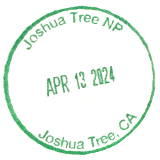
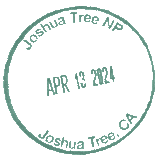
normalise cancellation stamp images; update clean_stamps.py
Remove white backgrounds from all stamps. Apply consistent duotone
(#5AB89A) to all green/cyan stamps, darken blue stamps (Mount Rainier).
Brown/warm stamps left as-is. Update clean_stamps.py to automate this
pipeline for future stamps via hue detection. Document in README.

diff --git a/css/style.css b/css/style.css
@@ -287,12 +287,10 @@ image.place {
   cursor: pointer;
   transition: opacity 0.4s ease;
   filter: url(#inset-shadow);
-  opacity: 0.4;
 }
 
 image.place.visited {
   filter: url(#drop-shadow);
-  opacity: 1;
 }
 
 #content {
@@ -389,7 +387,7 @@ image.place.visited {
   font-family: inherit;
   font-size: 0.9rem;
   font-weight: 600;
-  color: var(--color-text-tertiary);
+  color: var(--color-text-lightest);
   transition: background var(--transition-fast), color var(--transition-fast);
   line-height: 1;
   min-height: 28px;
@@ -526,7 +524,7 @@ image.place.visited {
   content: '';
   position: absolute;
   inset: 0;
-  background: #fff;
+  background: var(--color-map-water);
   border-radius: var(--radius-md);
   backface-visibility: hidden;
   transform: translateZ(0);
@@ -536,7 +534,7 @@ image.place.visited {
   content: '';
   position: absolute;
   inset: 0;
-  background-color: var(--color-map-water);
+  background-color: #D4C9A8;
   border-radius: var(--radius-md);
   transform: rotateY(180deg) translateZ(0);
   backface-visibility: hidden;

diff --git a/js/main.js b/js/main.js
@@ -433,11 +433,11 @@ function setupYearFilter(images, visits) {
   const container = d3.select('#year-filter');
 
   container.selectAll('button')
-    .data(['all', ...years])
+    .data([...years, 'all'])
     .enter()
     .append('button')
     .attr('class', 'year-btn')
-    .classed('year-btn--active', (d, i) => i === 0)
+    .classed('year-btn--active', (d, i, nodes) => i === nodes.length - 1)
     .text(d => d === 'all' ? 'All' : d)
     .on('click', (event, year) => {
       container.selectAll('.year-btn').classed('year-btn--active', d => d === year);

diff --git a/scripts/clean_stamps.py b/scripts/clean_stamps.py
@@ -1,15 +1,23 @@
 #!/usr/bin/env python3
 """
-Clean up NPS passport cancellation stamp photos using Gemini.
+Clean up NPS passport cancellation stamp photos using Gemini, then normalise
+colours so all stamps look consistent against the card's cream background.
 
 Place raw stamp photos in this folder (jpg/png/heic) and run:
     GEMINI_API_KEY=your_key python3 scripts/clean_stamps.py
 
 Cleaned 160x160 PNGs are saved alongside the originals with a _clean suffix
 for review. Once happy, rename and move to img/cancellations/.
+
+Colour treatment applied automatically by detected hue:
+  - Green / cyan (hue 80-210°): duotone to a consistent dark teal-green
+  - Blue (hue 210-270°):        darken while preserving hue
+  - Warm / brown / black:       remove white background only
 """
 
+import colorsys
 import io
+import math
 import os
 import sys
 from pathlib import Path
@@ -27,6 +35,14 @@ if not API_KEY:
     print("Error: set GEMINI_API_KEY environment variable before running")
     sys.exit(1)
 
+# ── Colour normalisation settings ────────────────────────────────────────────
+GREEN_DUOTONE_TARGET   = (90, 184, 154)   # #5AB89A - consistent teal-green
+GREEN_DUOTONE_BRIGHT   = 0.85             # luminance multiplier before tint
+GREEN_DUOTONE_MIX      = 0.50             # how strongly the target colour is applied
+BLUE_BRIGHTNESS        = 0.60             # multiplier for blue stamps
+WHITE_BG_FUZZ          = 0.20             # fuzz threshold for background removal
+# ─────────────────────────────────────────────────────────────────────────────
+
 PROMPT = (
     "Remove the background from this passport cancellation stamp photo and replace it with pure white. "
     "Do not redraw, recreate, or alter the stamp itself in any way - keep the original ink, texture, and imperfections exactly as they are. "
@@ -42,6 +58,87 @@ MIME_TYPES = {
     ".webp": "image/webp",
     ".heic": "image/heic",
 }
+
+
+def get_dominant_hue(img: Image.Image) -> float:
+    """Returns median hue (0-360°) of non-white, non-transparent, saturated pixels."""
+    rgba = img.convert("RGBA")
+    hues = []
+    for r, g, b, a in rgba.getdata():
+        if a < 30:
+            continue
+        if r > 200 and g > 200 and b > 200:
+            continue
+        h, s, _ = colorsys.rgb_to_hsv(r / 255, g / 255, b / 255)
+        if s > 0.15:
+            hues.append(h * 360)
+    if not hues:
+        return 30.0  # default to warm/brown if no saturated pixels found
+    hues.sort()
+    return hues[len(hues) // 2]
+
+
+def remove_white_bg(img: Image.Image, fuzz: float = WHITE_BG_FUZZ) -> Image.Image:
+    """Make near-white pixels transparent."""
+    rgba = img.convert("RGBA")
+    threshold = fuzz * math.sqrt(3)
+    pixels = []
+    for r, g, b, a in rgba.getdata():
+        dist = math.sqrt((1 - r / 255) ** 2 + (1 - g / 255) ** 2 + (1 - b / 255) ** 2)
+        pixels.append((r, g, b, 0 if dist < threshold else a))
+    result = Image.new("RGBA", rgba.size)
+    result.putdata(pixels)
+    return result
+
+
+def apply_green_duotone(img: Image.Image) -> Image.Image:
+    """Desaturate and tint to a consistent green, preserving transparency."""
+    tr, tg, tb = GREEN_DUOTONE_TARGET
+    mix = GREEN_DUOTONE_MIX
+    bright = GREEN_DUOTONE_BRIGHT
+    rgba = img.convert("RGBA")
+    pixels = []
+    for r, g, b, a in rgba.getdata():
+        if a < 10:
+            pixels.append((0, 0, 0, 0))
+            continue
+        gray = int((0.299 * r + 0.587 * g + 0.114 * b) * bright)
+        pixels.append((
+            min(255, int(gray * (1 - mix) + tr * mix)),
+            min(255, int(gray * (1 - mix) + tg * mix)),
+            min(255, int(gray * (1 - mix) + tb * mix)),
+            a,
+        ))
+    result = Image.new("RGBA", rgba.size)
+    result.putdata(pixels)
+    return result
+
+
+def normalize_blue(img: Image.Image) -> Image.Image:
+    """Darken blue stamps while preserving their hue."""
+    bright = BLUE_BRIGHTNESS
+    rgba = img.convert("RGBA")
+    pixels = []
+    for r, g, b, a in rgba.getdata():
+        if a < 10:
+            pixels.append((0, 0, 0, 0))
+            continue
+        pixels.append((int(r * bright), int(g * bright), int(b * bright), a))
+    result = Image.new("RGBA", rgba.size)
+    result.putdata(pixels)
+    return result
+
+
+def colour_label(hue: float) -> str:
+    if 80 <= hue <= 210:
+        return "green/cyan → duotone"
+    elif 210 < hue <= 270:
+        return "blue → darken"
+    else:
+        return "warm/brown → no colour change"
+
+
+# ── Main ──────────────────────────────────────────────────────────────────────
 
 scripts_dir = Path(__file__).parent
 images = sorted(
@@ -79,8 +176,21 @@ for image_path in images:
         print(f"  No image returned for {image_path.name} - skipping")
         continue
 
-    img = Image.open(io.BytesIO(image_part.inline_data.data)).convert("RGB")
+    img = Image.open(io.BytesIO(image_part.inline_data.data)).convert("RGBA")
     img = img.resize((160, 160), Image.LANCZOS)
+
+    # Detect hue before removing background (white pixels excluded in analysis)
+    hue = get_dominant_hue(img)
+    print(f"  Dominant hue: {hue:.0f}° → {colour_label(hue)}")
+
+    # Remove white background
+    img = remove_white_bg(img)
+
+    # Apply colour normalisation
+    if 80 <= hue <= 210:
+        img = apply_green_duotone(img)
+    elif 210 < hue <= 270:
+        img = normalize_blue(img)
 
     output_path = scripts_dir / f"{image_path.stem}_clean.png"
     img.save(output_path, "PNG")

diff --git a/README.md b/README.md
@@ -114,6 +114,16 @@ Chronological order is conventional but not required.
 - The rubber cancellation stamp from the park's passport stamp, displayed as the primary visual in the visit card
 - **Tip:** If the scanned stamp has overlapping stamps or noise, Gemini image generation does a great job producing a clean recreation. Prompt it with the park name, date, and location text from the original stamp.
 
+**Required: remove the white background.** The card design renders stamps on a warm cream background - any white in the image will show as an opaque white square rather than transparent. After placing the file, run:
+
+```sh
+magick img/cancellations/YYYYMMDD-{parkCode}.png \
+  -alpha set -fuzz 20% -transparent white \
+  img/cancellations/YYYYMMDD-{parkCode}.png
+```
+
+The `-fuzz 20%` threshold removes near-white pixels (antialising, slight off-white) while preserving the stamp ink. If the stamp has very light ink colours, lower to `10%`. If stubborn white patches remain, raise to `25%`.
+
 ### 3. Add the visit photo
 
 - **Path:** `img/visits/YYYYMMDD-{parkCode}.{ext}` (jpg, jpeg, or png)
